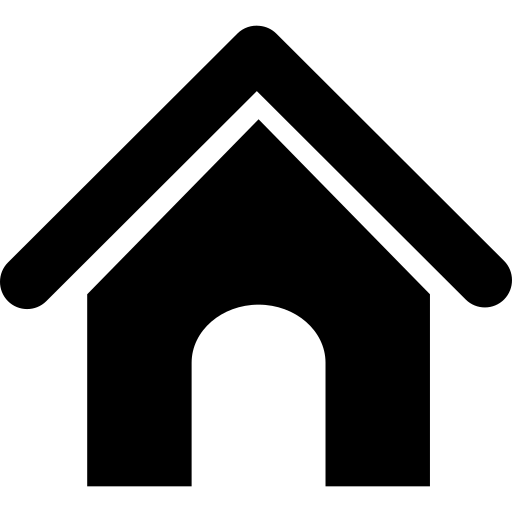
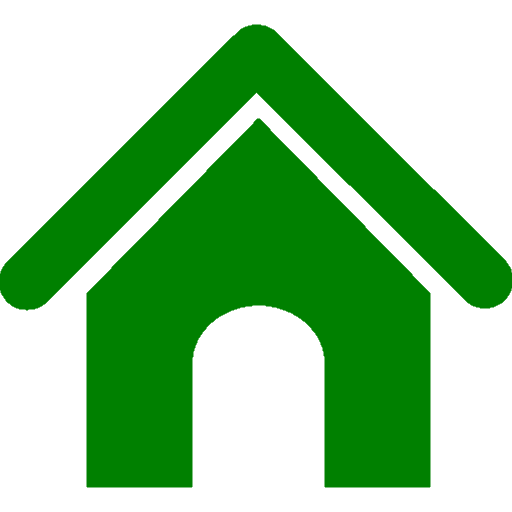
Spike: Add controller method to create renovations for plotting. Clean JavaScript to only use functionality necessary for the spike.

diff --git a/src/main/resources/static/js/homeMap.js b/src/main/resources/static/js/homeMap.js
@@ -1,30 +1,20 @@
 const locationResponse = await fetch("location/localisation", {method: "GET"});
+const renovationResponse = await fetch("map/renovations", {method: "GET"});
+
+const userRenovation = L.icon({
+    iconUrl: "map/marker/user-renovation",
+    iconSize: [32, 32]
+})
 
 const publicRenovation = L.icon({
     iconUrl: "map/marker/public-renovation",
     iconSize: [32, 32]
 })
 
-function debounce(func, wait) {
-    let timeout;
-    return function(...args) {
-        clearTimeout(timeout);
-        timeout = setTimeout(() => func.apply(this, args), wait);
-    };
-}
-
 if (locationResponse.ok) {
     const locationData = await locationResponse.json();
     const { latitude, longitude } = locationData.location;
     const map = L.map('map').setView([latitude, longitude], 11);
-
-    const handleMapChange = () => {
-        const bounds = map.getBounds();
-        const southWest = bounds.getSouthWest();
-        const northEast = bounds.getNorthWest();
-    }
-
-    const debouncedHandleMapChange = debounce(handleMapChange, 700)
 
     L.tileLayer('https://tile.openstreetmap.org/{z}/{x}/{y}.png', {
         maxZoom: 19,
@@ -32,11 +22,10 @@ if (locationResponse.ok) {
         attribution: '&copy; <a href="http://www.openstreetmap.org/copyright">OpenStreetMap</a>'
     }).addTo(map);
 
-    ["click", "moveend"].forEach(eventName => {
-        map.on(eventName, debouncedHandleMapChange)
+    const renovationData = await renovationResponse.json();
+    renovationData.forEach(renovation => {
+        L.marker([renovation.location.latitude, renovation.location.longitude], {icon: userRenovation}).addTo(map);
     })
-
 } else {
     console.log("Not found.")
 }
-

diff --git a/src/main/java/nz/ac/canterbury/seng302/homehelper/controller/MapController.java b/src/main/java/nz/ac/canterbury/seng302/homehelper/controller/MapController.java
@@ -1,14 +1,15 @@
 package nz.ac.canterbury.seng302.homehelper.controller;
 
+import nz.ac.canterbury.seng302.homehelper.entity.Location;
+import nz.ac.canterbury.seng302.homehelper.entity.RenovationRecord;
 import org.springframework.core.io.ClassPathResource;
 import org.springframework.core.io.Resource;
 import org.springframework.http.MediaType;
 import org.springframework.http.ResponseEntity;
-import org.springframework.web.bind.annotation.GetMapping;
-import org.springframework.web.bind.annotation.PathVariable;
-import org.springframework.web.bind.annotation.RequestMapping;
-import org.springframework.web.bind.annotation.RestController;
+import org.springframework.web.bind.annotation.*;
 
+import java.util.ArrayList;
+import java.util.List;
 import java.util.Map;
 
 @RestController
@@ -34,5 +35,22 @@ public class MapController {
                     .body(resource);
         }
         return ResponseEntity.notFound().build();
+    }
+
+    @GetMapping("/renovations")
+    public List<RenovationRecord> getRenovation() {
+        List<RenovationRecord> renovations = new ArrayList<>();
+        for (int i = 0; i < 10; i++) {
+            for (int j = 0; j < 10; j++) {
+                RenovationRecord renovationRecord = new RenovationRecord();
+                renovationRecord.setTags(new ArrayList<>());
+                Location location = new Location();
+                location.setLatitude(-43.52460 + i * 0.0001);
+                location.setLongitude(172.57710 + j * 0.0001);
+                renovationRecord.setLocation(location);
+                renovations.add(renovationRecord);
+            }
+        }
+        return renovations;
     }
 }
